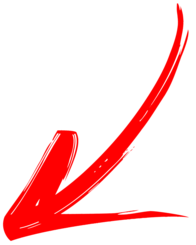
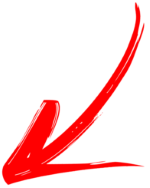
site created

diff --git a/html5site.html b/html5site.html
@@ -10,8 +10,9 @@
         <header>
             <h1>HTML 5 and CSS3 Course</h1>   
             <p>Where you can learn HTML 5 and CSS3.</p>
-            <iframe width="560" height="315" src="https://www.youtube.com/embed/W-6OY9eI3hk?si=FiE9lBG5F5hO1Ak6" title="YouTube video player" frameborder="0" allow="accelerometer; autoplay; clipboard-write; encrypted-media; gyroscope; picture-in-picture; web-share" referrerpolicy="strict-origin-when-cross-origin" allowfullscreen></iframe>          
+            <iframe width="560" height="315" src="https://www.youtube.com/embed/W-6OY9eI3hk?si=FiE9lBG5F5hO1Ak6" title="YouTube video player" frameborder="0" allow="accelerometer; autoplay; clipboard-write; encrypted-media; gyroscope; picture-in-picture; web-share" referrerpolicy="strict-origin-when-cross-origin" allowfullscreen></iframe>
         </header>
+        <a href="index.html"><img src="imagens/seta.png" alt="back"></a>
     </main>
 </body>
 </html>

diff --git a/javsite.html b/javsite.html
@@ -11,6 +11,7 @@
             <h1>JavaScript Course</h1>
             <p>Where you can learn Java.</p>             
         </header>
+        <a href="index.html"><img src="imagens/seta.png" alt="back"></a>
     </main>
 </body>
 </html>
